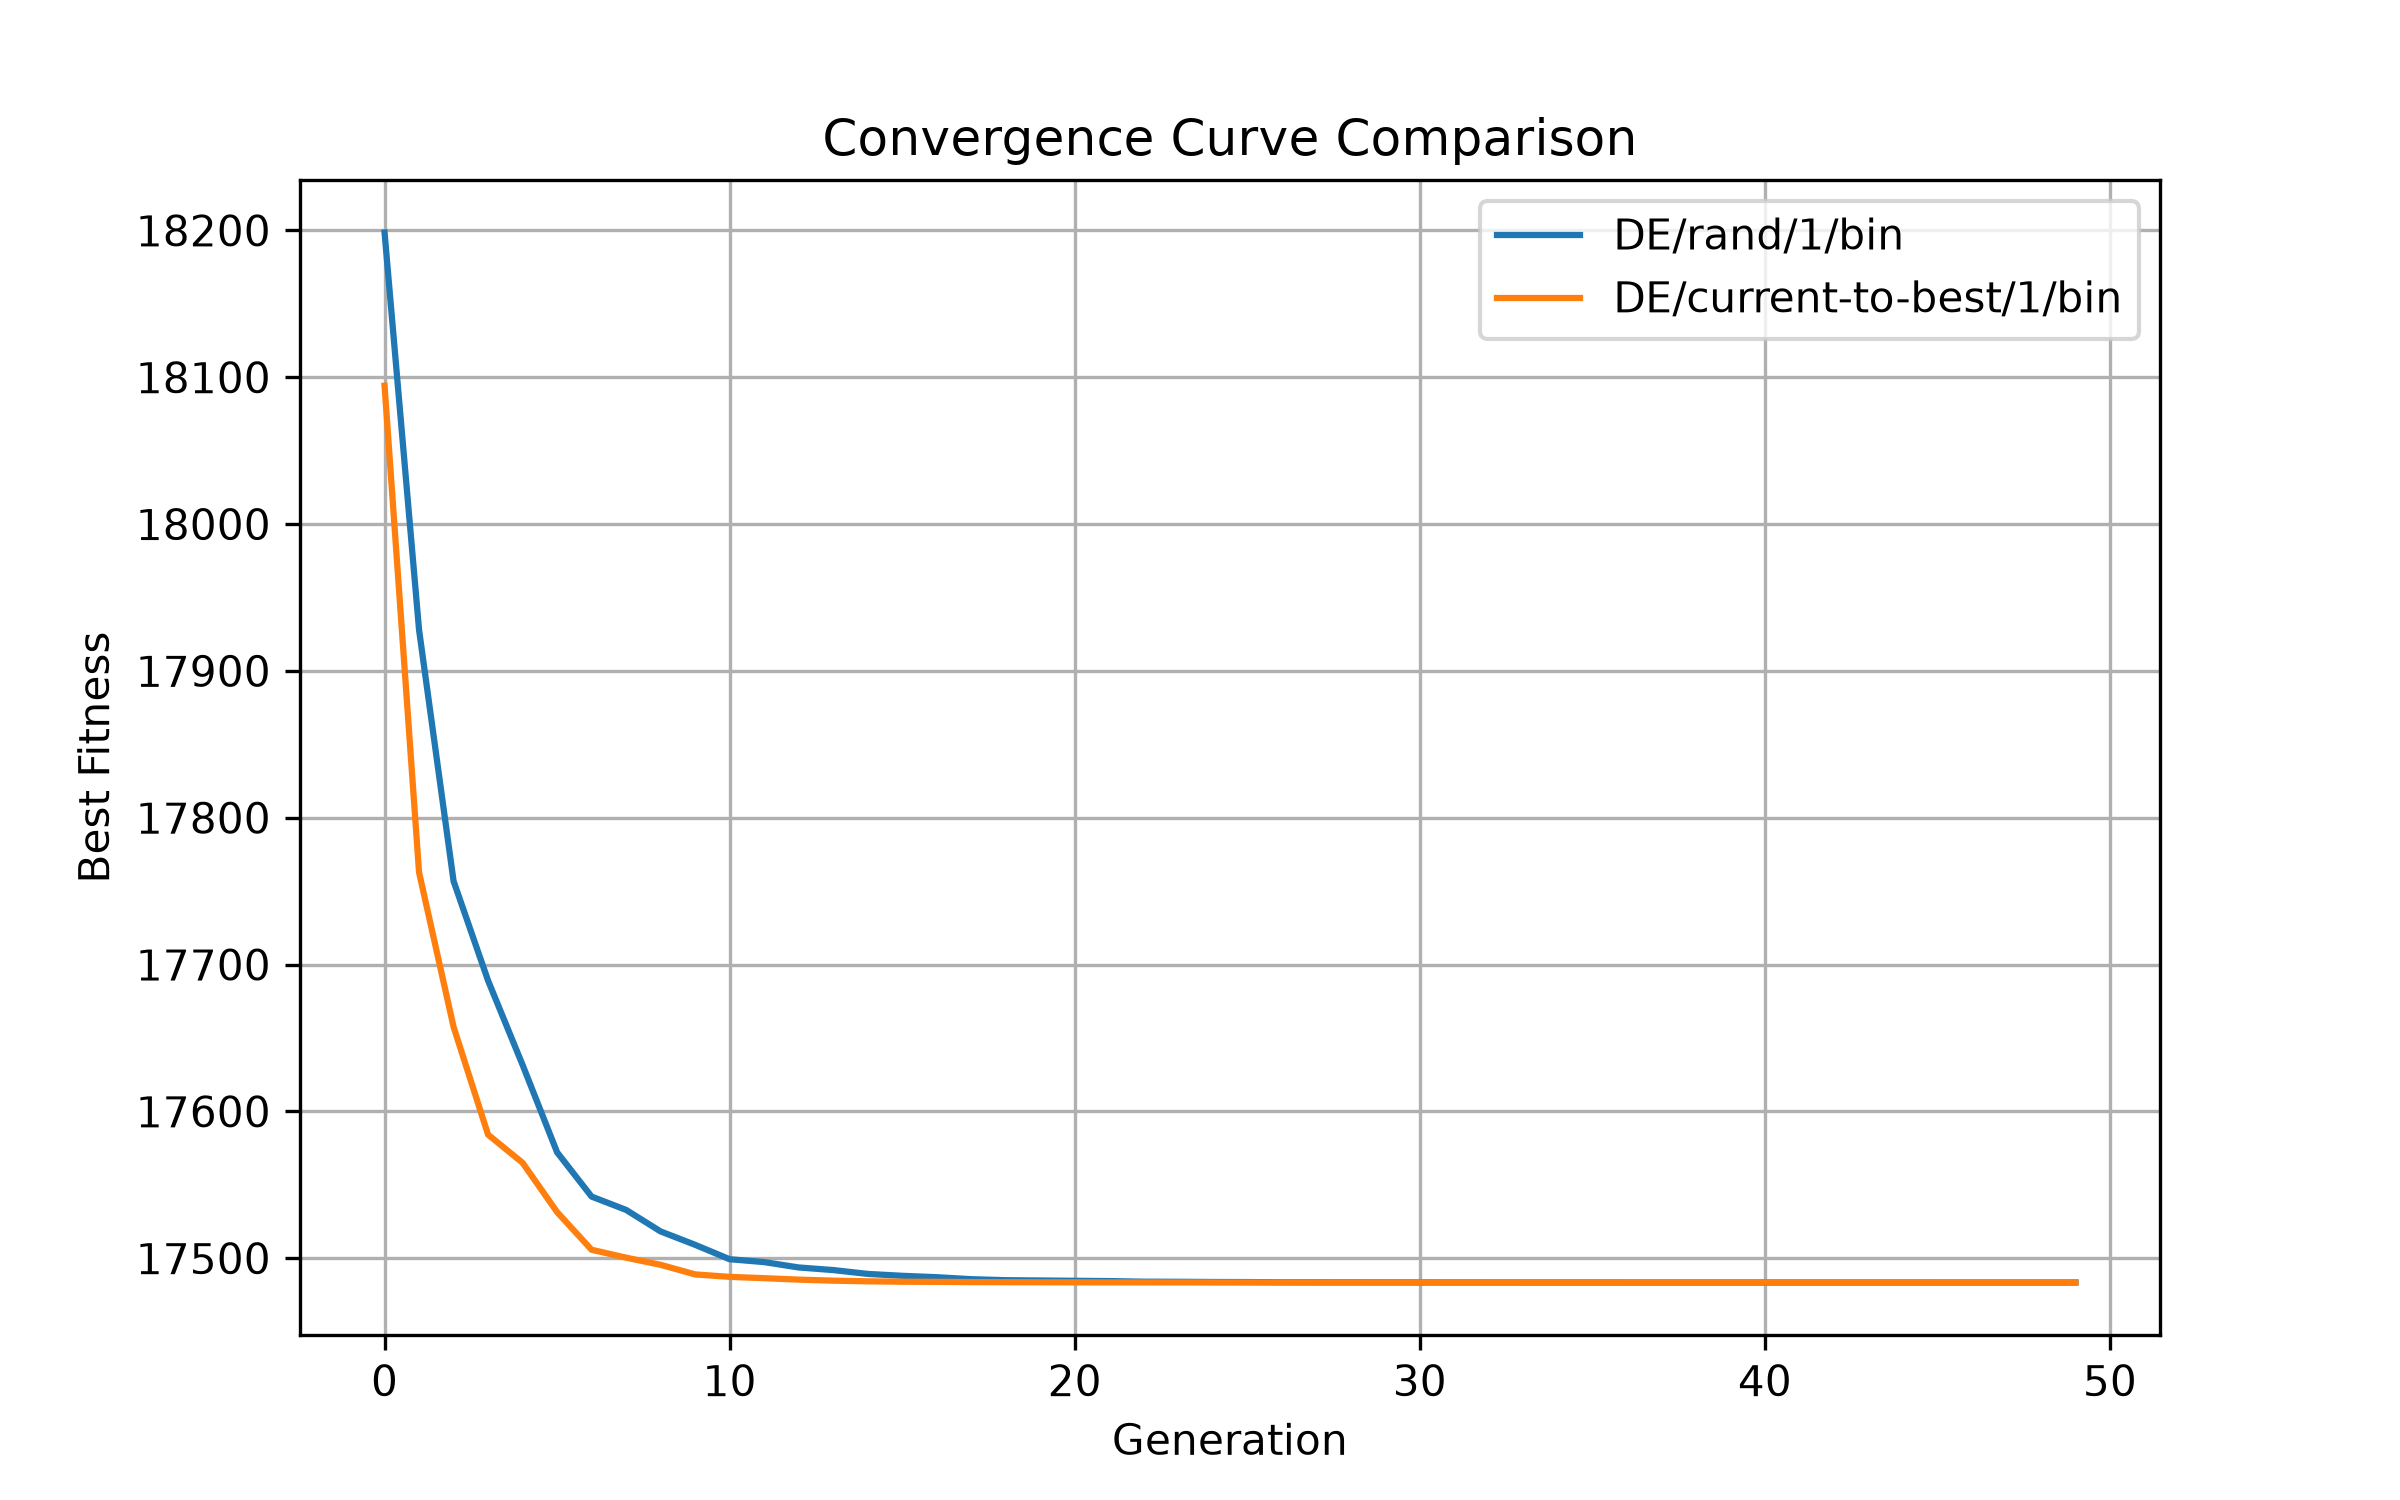
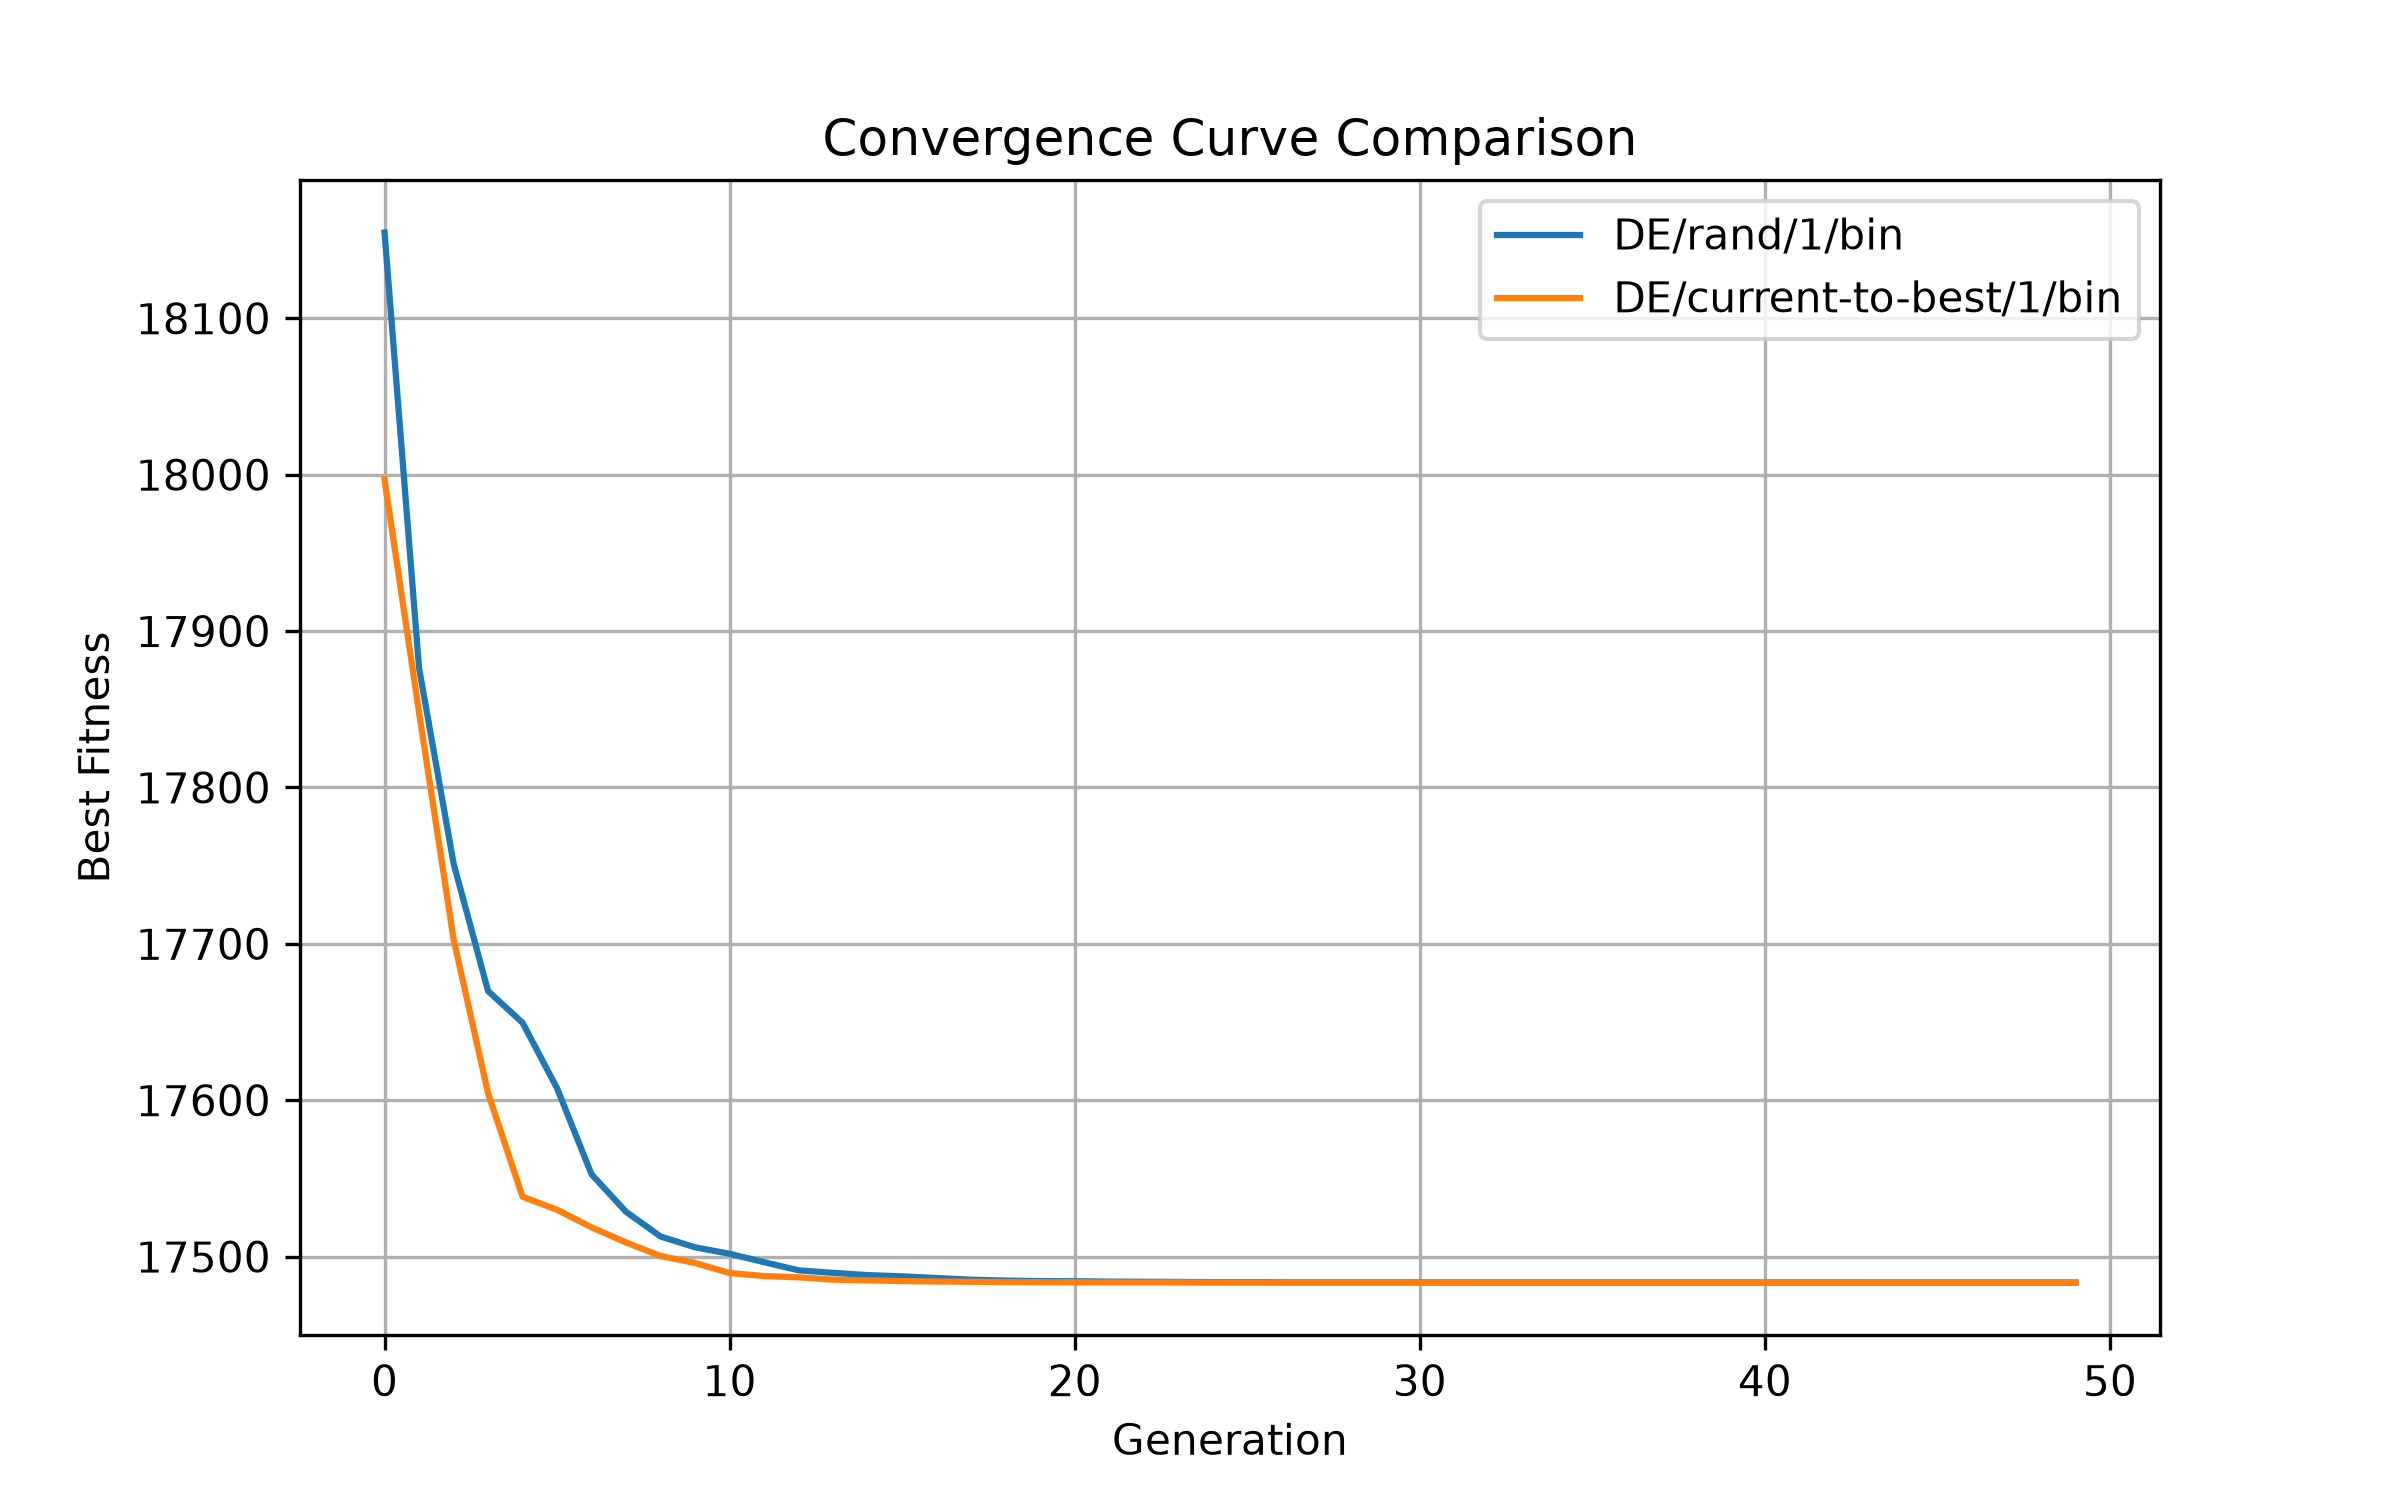
Final report + experiments + visualization

diff --git a/src/sensitivity_analysis.py b/src/sensitivity_analysis.py
@@ -1,0 +1,72 @@
+import numpy as np
+import matplotlib.pyplot as plt
+
+from src.de_rand_1_bin import DERand1Bin
+from src.objective import CampusStationObjective
+
+
+def run_single_F(F, runs=5):
+
+    obj = CampusStationObjective("data/demand_points.csv")
+
+    results = []
+
+    for _ in range(runs):
+
+        model = DERand1Bin(
+            objective=obj,
+            bounds=[(0, 50), (0, 30)],
+            pop_size=20
+        )
+
+        _, fitness, _ = model.optimize(
+            generations=50,
+            F=F,
+            CR=0.9
+        )
+
+        results.append(fitness)
+
+    return np.mean(results)
+
+
+def main():
+
+    F_values = [0.3, 0.5, 0.7, 0.9]
+    mean_fitness = []
+
+    for F in F_values:
+        print(f"Running F = {F}")
+        score = run_single_F(F)
+        mean_fitness.append(score)
+
+    # ===== 画图 =====
+    plt.figure(figsize=(8, 5))
+
+    plt.plot(
+        F_values,
+        mean_fitness,
+        marker='o',
+        linewidth=2
+    )
+
+    plt.xlabel("F (Scaling Factor)")
+    plt.ylabel("Mean Best Fitness")
+    plt.title("Sensitivity Analysis of F in DE/rand/1/bin")
+
+    plt.grid(True)
+
+    plt.savefig(
+        "results/sensitivity_F.png",
+        dpi=300,
+        bbox_inches="tight"
+    )
+
+    plt.show()
+
+    print("\nF values:", F_values)
+    print("Fitness:", mean_fitness)
+
+
+if __name__ == "__main__":
+    main()